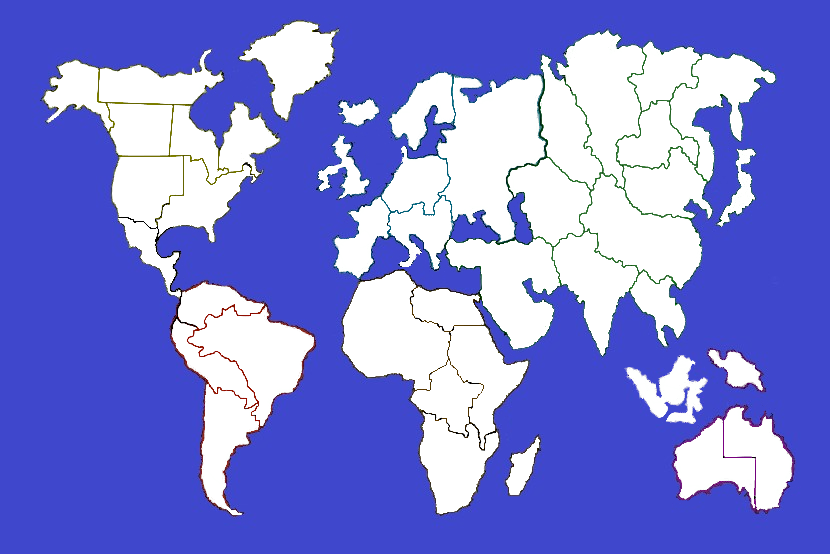
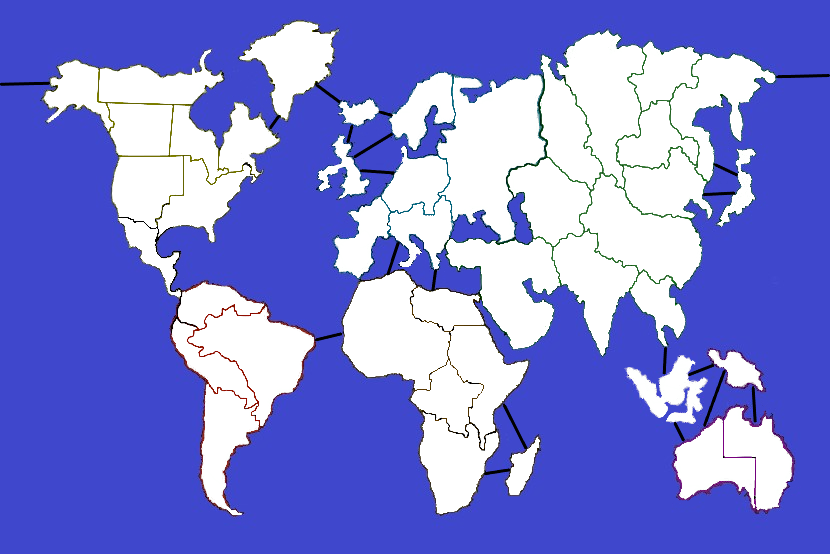
weltkarte angepasst

diff --git a/AOP_Risiko/src/Risiko/Weltkarte.java b/AOP_Risiko/src/Risiko/Weltkarte.java
@@ -36,7 +36,7 @@ public class Weltkarte {
         String imagePath = "src\\img\\risk.png";
         bild = ImageIO.read(new File(imagePath));
 
-        area = getOutline(Color.WHITE, bild, 12);
+        area = getOutline(Color.WHITE, bild, 60);
 
         shapeList = separateShapeIntoRegions(area);
         ui = new JPanel(new BorderLayout(4, 4));
@@ -124,7 +124,6 @@ public class Weltkarte {
 
         @Override
         public void mouseDragged(MouseEvent e) {
-            // do nothing
         }
 
         @Override
@@ -137,36 +136,38 @@ class MouseClickListener implements MouseListener {
       	
     	@Override
     	public void mouseClicked(MouseEvent e) {
+    		if (e.getButton() == MouseEvent.BUTTON1) {
              for (int i = 0; i < shapeList.size();i++) {
             	 Shape shape = shapeList.get(i);
             	 if (shape.contains(e.getPoint())) {
-            		 System.out.println("Clicked Shape" + i);
+            		 System.out.println("LinksKlick auf Shape " + i);
             	 }
               }
+    		}
+    		else if (e.getButton() == MouseEvent.BUTTON3) {
+             for (int i = 0; i < shapeList.size();i++) {
+            	 Shape shape = shapeList.get(i);
+            	 if (shape.contains(e.getPoint())) {
+            		 System.out.println("RechtsKlick auf Shape " + i);
+            	 }
+              }
+    		}
          }
 
 		@Override
-		public void mousePressed(MouseEvent e) {
-			// TODO Auto-generated method stub
-			
+		public void mousePressed(MouseEvent e) {		
 		}
 
 		@Override
 		public void mouseReleased(MouseEvent e) {
-			// TODO Auto-generated method stub
-			
 		}
 
 		@Override
-		public void mouseEntered(MouseEvent e) {
-			// TODO Auto-generated method stub
-			
+		public void mouseEntered(MouseEvent e) {		
 		}
 
 		@Override
-		public void mouseExited(MouseEvent e) {
-			// TODO Auto-generated method stub
-			
+		public void mouseExited(MouseEvent e) {		
 		}
 
     }
@@ -193,9 +194,9 @@ class MouseClickListener implements MouseListener {
 
         Graphics2D g = bi.createGraphics();
         g.drawImage(bild, 0, 0, output);
-        g.setColor(Color.ORANGE.darker());
+        g.setColor(Color.WHITE.darker());
         g.fill(area);
-        g.setColor(Color.RED);
+        g.setColor(Color.BLACK);
         g.draw(area);
         try {
             Point p = MouseInfo.getPointerInfo().getLocation();
